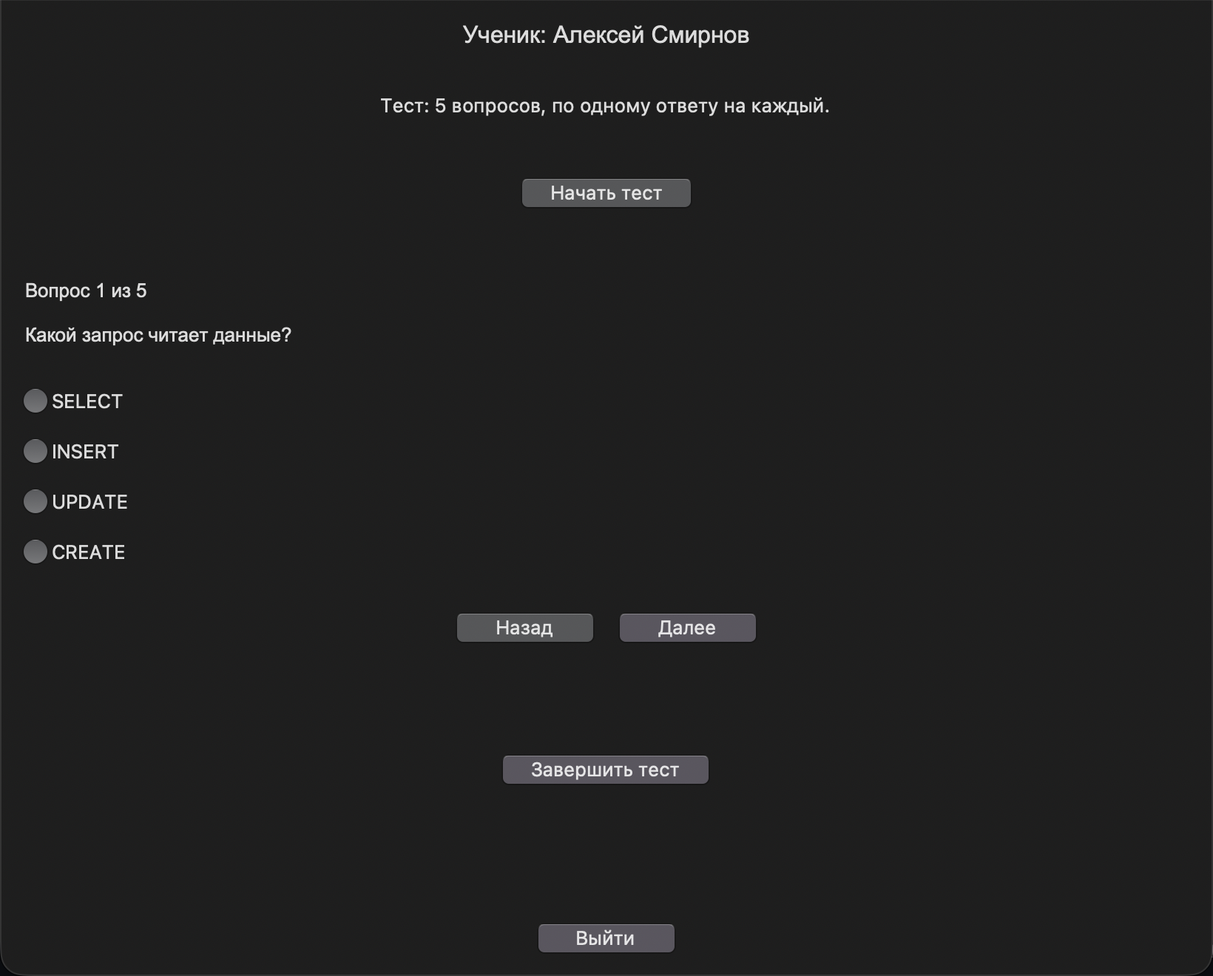
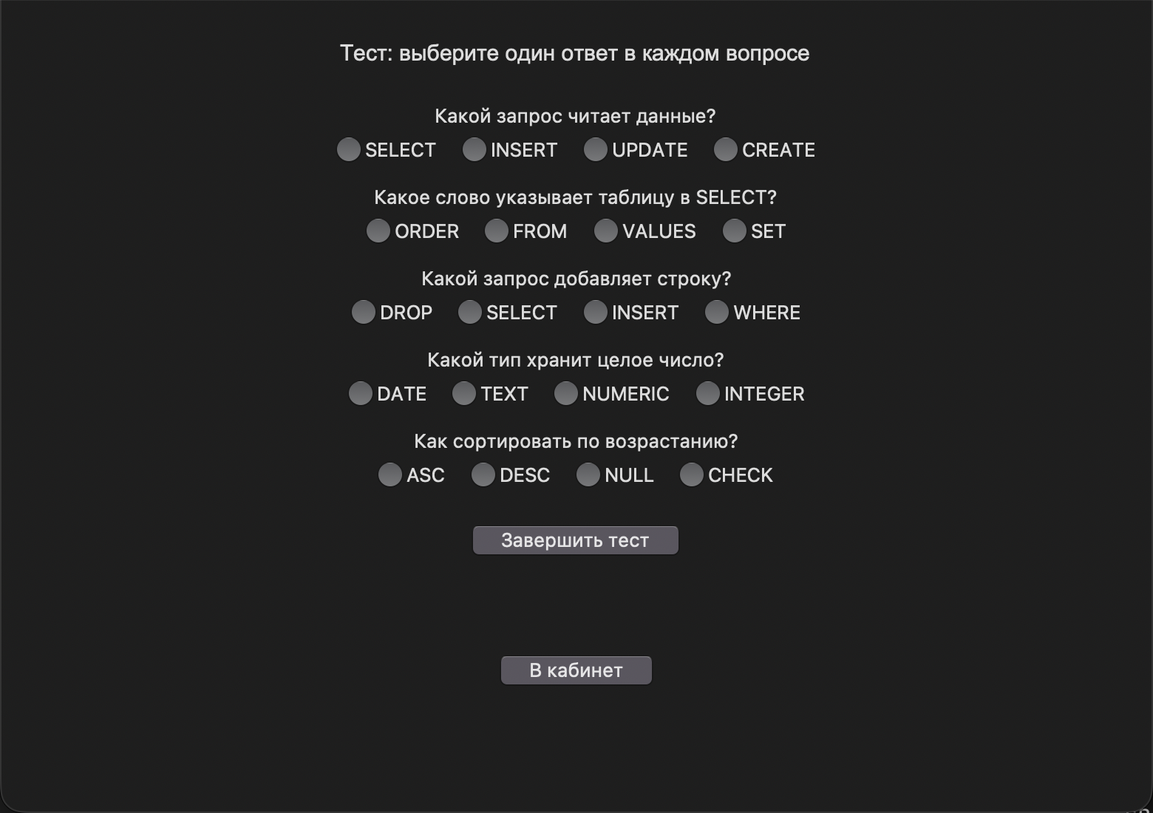
Снизить сложность ТЗ до входа, двух ролей, готового теста и оценок

diff --git a/README.md b/README.md
@@ -1,310 +1,97 @@
-# Практическое задание «Система тестирования учащихся»
+# Практическая работа «Простая система тестирования»
 
-**Разработайте приложение на Python с графическим интерфейсом Tkinter и базой данных PostgreSQL.** В приложении должны работать авторизация и регистрация с выбором роли, тест из пяти вопросов, редактор вопросов и просмотр успеваемости.
+Создайте приложение на Python с Tkinter и PostgreSQL. В нём две роли: **ученик** и **преподаватель**. Ученик проходит один готовый тест и видит свои оценки. Преподаватель смотрит результаты всех учеников.
 
-В системе две роли: **ученик** и **преподаватель**. **Тест один общий для всех учеников. Выбирать преподавателя при регистрации не нужно. Все преподаватели редактируют общий тест и видят результаты всех учеников.** Предмет тестирования можно выбрать самостоятельно. В схемах приведён пример по основам SQL.
+Для этой работы достаточно одного окна: при переходе можно очищать его содержимое и показывать другую форму. Пишите обычные функции, без собственных классов.
 
-## 1. Первое окно — вход и регистрация
+## 1. Вход
 
-![Окно входа](images/01_auth_registration.png)
+![Простая форма входа](images/01_auth_registration.png)
 
-При запуске покажите форму входа. Под кнопкой «Войти» разместите надпись **«Нет аккаунта?»** и кнопку **«Зарегистрироваться»**. По нажатию открывается форма регистрации: в отдельном окне либо на другой вкладке.
+На форме два поля: **логин** и **пароль**. Ниже кнопки **«Войти»** и **«Создать аккаунт»**.
 
-### Вход
+По нажатию «Войти» найдите пользователя в БД и проверьте пароль. Роль возьмите из найденной записи: ученик открывает свой кабинет, преподаватель — свой. При неверном логине или пароле покажите предупреждение.
 
-1. Пользователь выбирает роль **«Ученик»** или **«Преподаватель»** из выпадающего списка, вводит логин и пароль, затем нажимает **«Войти»**.
-2. Приложение проверяет данные по БД.
-3. После успешного входа открывается кабинет, соответствующий роли пользователя.
-4. При неверных данных появляется сообщение «Неверный логин или пароль».
+Выбирать роль при входе и выбирать преподавателя ученику не нужно.
 
-В поле **«Роль»** должны быть только два значения: **«Ученик»** и **«Преподаватель»**. Приложение сверяет выбранную роль с ролью учётной записи в БД. Если роль не совпадает, вход запрещается и выводится понятное предупреждение. Выбор преподавателя в списке ролей не даёт ученику доступ к кабинету преподавателя.
+## 2. Регистрация
 
-### Регистрация с выбором роли
+![Простая форма регистрации](images/02_registration.png)
 
-![Регистрация без выбора преподавателя](images/05_registration.png)
+На форме:
 
-В форме должны быть выпадающий список **«Роль: Ученик / Преподаватель»**, поля «ФИО», «Логин», «Пароль», «Повторите пароль» и кнопка **«Зарегистрироваться»**.
+- Новый логин: от 3 до 30 символов.
+- Пароль: не менее 8 символов.
+- Роль из списка: «Ученик» или «Преподаватель».
+- Кнопки «Зарегистрироваться» и «Назад ко входу».
 
-Добавьте кнопку **«Уже есть аккаунт? Войти»**, которая возвращает к форме входа.
+Пустые/слишком короткие значения и занятый логин не сохраняйте. Приводите логин к нижнему регистру при регистрации и входе. После регистрации верните пользователя к форме входа.
 
-- ФИО обязательно для заполнения.
-- Логин — от 3 до 50 символов; повторяющиеся логины запрещены. Регистр букв при проверке логина не учитывается.
-- Пароль — не менее 8 символов; оба введённых пароля должны совпадать.
-- После регистрации учётная запись сохраняется с выбранной ролью. Пользователь возвращается к входу; в форме входа автоматически выбирается та же роль.
-- При регистрации нового преподавателя отдельный тест не создаётся: после входа он работает с общим тестом из пяти вопросов. Поля «Ваш преподаватель» в форме нет.
+Для защиты пароля возьмите готовый файл password_tools.py из материалов. Он создаёт хеш и проверяет пароль; писать этот вспомогательный код самостоятельно не требуется.
 
-Для демонстрации заранее создайте преподавателя и учеников; также обеспечьте регистрацию обеих ролей через интерфейс. Пароли храните в виде хешей с солью.
+## 3. Кабинет ученика и тест
 
-## 2. Второе окно — кабинет преподавателя и редактор вопросов
+Кнопки кабинета: **«Пройти тест»**, **«Мои оценки»**, **«Выйти»**.
 
-![Схема кабинета преподавателя с редактором и правильным ответом](images/02_teacher_editor.png)
+![Пять вопросов на одном экране](images/03_student_test.png)
 
-В кабинете покажите ФИО преподавателя, редактор теста, кнопку **«Мои ученики»** и кнопку **«Выйти»**.
+1. По кнопке «Пройти тест» загрузите из БД пять готовых вопросов.
+2. Покажите у каждого четыре варианта и дайте выбрать один через Radiobutton.
+3. По кнопке «Завершить тест» проверьте, что ответы выбраны во всех пяти вопросах. При пропуске покажите предупреждение.
+4. Посчитайте правильные ответы и определите оценку.
+5. Сохраните логин ученика, число правильных ответов и оценку в БД.
+6. Покажите результат: например, «Верных ответов: 4 из 5. Оценка: 4».
 
-Общий тест состоит ровно из **пяти вопросов**. Для каждого вопроса предусмотрено **четыре варианта**, из которых **один правильный**.
+Шкала простая: 5 правильных → оценка 5; 4 → 4; 3 → 3; от 0 до 2 → 2.
 
-Преподаватель должен иметь возможность:
+Сначала сравнение выполняется в Python. За каждое совпадение счётчик увеличивается на 1. Затем INSERT сохраняет итог. Сохраняются все завершённые результаты, даже ноль правильных ответов. При пропуске результат пока не сохраняется.
 
-1. Выбрать любой из пяти вопросов.
-2. Увидеть текст вопроса и четыре варианта ответа.
-3. Увидеть, какой вариант отмечен правильным.
-4. Изменить вопрос, варианты и отметку правильного ответа.
-5. Нажать **«Сохранить изменения»** и получить сообщение об успешном сохранении.
+После сохранения выключите кнопку завершения, чтобы повторный щелчок не добавил ту же запись. Новое прохождение разрешено и сохраняется новой строкой. До завершения оценку не показывайте.
 
-Не допускайте сохранения пустого вопроса, пустых вариантов или отсутствия правильного ответа. Изменения записываются в БД и используются в новых попытках. Добавление и удаление вопросов в этой работе не требуется.
+## 4. Оценки ученика
 
-Все преподаватели редактируют один общий тест и видят всех учеников системы. Ученик получает общий тест. Ученику редактирование и просмотр статистики недоступны.
+![Свои оценки ученика](images/05_student_grades.png)
 
-## 3. Третье окно — кабинет ученика и тест
+По кнопке «Мои оценки» покажите Treeview с тремя столбцами: **Ученик · Верных из 5 · Оценка**. Загрузите только результаты вошедшего ученика. Кнопка «Обновить» повторно читает БД, «В кабинет» возвращает назад.
 
-![Схема кабинета ученика с пятью вопросами и итоговым результатом](images/03_student_test.png)
+## 5. Кабинет преподавателя
 
-В кабинете покажите ФИО ученика, кнопку **«Начать тест»** и кнопку **«Выйти»**.
+Кнопки кабинета: **«Все результаты»** и **«Выйти»**.
 
-После начала теста:
+![Все результаты преподавателю](images/04_teacher_statistics.png)
 
-1. Загрузите из БД пять вопросов и варианты ответа.
-2. Покажите вопросы в одном окне с прокруткой либо последовательно.
-3. Для каждого вопроса дайте выбрать один вариант ответа, например с помощью переключателей `Radiobutton`.
-4. Предусмотрите кнопку **«Завершить тест»**.
+По кнопке «Все результаты» покажите такую же таблицу из трёх столбцов, но с результатами всех учеников. Добавьте «Обновить» и «В кабинет».
 
-Пока ученик не завершил тест, правильные ответы и оценка не показываются. Если хотя бы один ответ не выбран, выведите предупреждение и оставьте возможность продолжить работу.
+Преподаватель только смотрит результаты. Редактор вопросов в этой работе не требуется: вопросы уже заполнены через SQL. Ученик видит только свои результаты.
 
-После завершения автоматически подсчитайте правильные ответы и покажите результат, например: **«Правильных ответов: 4 из 5. Оценка: 4»**.
+## 6. База данных
 
-Шкала оценивания:
+Достаточно трёх таблиц:
 
-- 5 правильных ответов — **5**.
-- 4 правильных ответа — **4**.
-- 3 правильных ответа — **3**.
-- От 0 до 2 правильных ответов — **2**.
+- users: login, password_hash, role.
+- questions: id, question, answer_1, answer_2, answer_3, answer_4, correct.
+- results: id, student_login, score, grade.
 
-Сохраните ученика, дату и время завершения, ответы на пять вопросов, число правильных ответов и оценку. Время в интерфейсе показывайте по Москве.
+correct — номер правильного варианта от 1 до 4. score — количество верных ответов от 0 до 5. grade — оценка. id в results автоматически выдаётся через SERIAL.
 
-Повторное прохождение разрешено. Каждое прохождение сохраняется отдельной попыткой. Повторное нажатие кнопки завершения одной попытки не должно создавать дубликат.
+Используйте простые TEXT, INTEGER и SERIAL. Для работы достаточно CREATE TABLE, INSERT, SELECT, WHERE и ORDER BY. Готовые команды создания таблиц и заполнения пяти вопросов даны в пошаговых материалах. JOIN, внешние ключи, даты, отдельное сохранение каждого ответа и история изменения вопросов не нужны.
 
-Блок результата появляется только после завершения теста.
+Данные должны оставаться после закрытия программы. Пользовательские значения передавайте в запросы через %s и отдельный кортеж параметров, как показано в примерах. Ошибку подключения показывайте сообщением, чтобы программа не закрывалась аварийно.
 
-### Подсказка: как получить и сохранить оценку без JOIN
+## 7. Как собирать
 
-1. При нажатии «Начать тест» загрузите пять общих вопросов, четыре варианта и правильный номер каждого.
-2. Сохраните копию этих данных в памяти текущей попытки. Ученик видит только вопрос и варианты.
-3. Получите пять выбранных номеров из Tkinter. Если есть пропуск, покажите предупреждение и не сохраняйте попытку.
-4. Сравните выбор с правильным номером из сохранённой копии. За совпадение прибавьте 1 к счётчику Python.
-5. Определите оценку, затем сохраните попытку и все пять ответов одной транзакцией. Даже ноль правильных — завершённая попытка с оценкой 2.
-6. Для статистики читайте уже сохранённые оценки. Не пересчитывайте их по изменённым вопросам.
+Откройте папку tk_system в репозитории Materials. Там пошагово собирается именно эта простая программа, в одном файле app.py. Идите по документам 01–05 по порядку. Каждый фрагмент объясняет, в какой файл и куда добавить строки.
 
-Ниже небольшие примеры. Полная пошаговая сборка по строкам находится в папке tk_system репозитория Materials. Файлы идут по порядку от 01_База_и_настройки.md до 06_Словарь.md.
+Готовые settings_example.py и password_tools.py разрешается взять из материалов. Создайте копию settings_example.py с именем settings.py и укажите свои параметры PostgreSQL. Не нужно писать защиту пароля с нуля.
 
-#### Шаг 1. Один SELECT читает общий тест
+## 8. Что проверить и показать
 
-Варианты можно хранить четырьмя текстовыми полями одной таблицы questions. Для этого учебного задания отдельная таблица вариантов не обязательна.
+1. Регистрация создаёт ученика и преподавателя. Повторный логин вызывает предупреждение.
+2. Неверный пароль не позволяет войти. Правильный вход открывает кабинет нужной роли.
+3. Тест содержит пять вопросов, в каждом выбирается один ответ.
+4. С пропуском тест не завершается. Без пропусков результат сохраняется и появляется оценка.
+5. За 5, 4, 3 и 2 правильных ответа получаются оценки 5, 4, 3 и 2.
+6. Ученик видит свои оценки, преподаватель — все результаты. Новое прохождение добавляет строку.
+7. После закрытия и запуска результаты остаются в БД.
 
-```sql
-SELECT id, position, question_text, option_1, option_2, option_3, option_4, correct_option
-FROM questions ORDER BY position;
-```
-
-SELECT выбирает поля, FROM задаёт таблицу, ORDER BY задаёт порядок. position — номер вопроса 1–5, correct_option — правильный вариант 1–4. Запрос возвращает пять строк. Соединение таблиц не требуется.
-
-Шаблон для обычного курсора psycopg:
-
-```python
-курсор.execute(sql_вопросов)
-вопросы = курсор.fetchall()
-```
-
-sql_вопросов — строка с запросом выше; её нужно определить перед выполнением. fetchall возвращает все строки. При обычном курсоре вопросы[0][7] — правильный номер первого вопроса. В пошаговой сборке используется dict_row: там можно обращаться по имени поля, например строка['correct_option'].
-
-Сохраните отдельный снимок пяти вопросов, текстов, вариантов и правильных номеров при старте. При завершении используйте его, даже если преподаватель уже изменил общий тест.
-
-#### Шаг 2. Сохраните выбор ученика в Tkinter
-
-Для каждого вопроса нужна своя переменная. Пример для одного вопроса:
-
-```python
-выбор = tk.IntVar(value=0)
-```
-
-`IntVar` хранит целое число, связанное с переключателями Tkinter. `value=0` означает «ответ ещё не выбран». Создавайте переменные после создания главного окна. В файле должен быть импорт `import tkinter as tk`, а для следующих строк — `from tkinter import ttk`.
-
-Четыре переключателя одного вопроса связываются с одной переменной:
-
-```python
-for номер, текст in enumerate(варианты, start=1):
-    ttk.Radiobutton(область_вопроса, text=текст, variable=выбор, value=номер).pack(anchor="w")
-```
-
-`варианты` — список четырёх текстов из снимка, `область_вопроса` — созданный вами Frame. `enumerate(..., start=1)` даёт номера 1–4. `text` — надпись, `variable` — общая переменная этого вопроса, `value` — число, которое запишется при выборе. `pack` размещает виджет, `anchor="w"` прижимает к левому краю.
-
-Для пяти вопросов создайте пять отдельных `IntVar` и соберите их в список `выборы`. Если использовать одну переменную для всех пяти вопросов, выбор в одном вопросе будет менять выбор в другом.
-
-В обработчике «Завершить тест» получите значения:
-
-```python
-ответы_ученика = [переменная.get() for переменная in выборы]
-```
-
-`get()` читает текущее значение. Запись в квадратных скобках создаёт список значений пяти переменных. Сначала убедитесь, что их ровно пять и каждый ответ входит в `(1, 2, 3, 4)`. Если есть `0`, покажите предупреждение и завершите обработчик через `return`, сохранив возможность продолжить тест.
-
-#### Шаг 3. Посчитайте совпадения
-
-Для понимания проверьте маленький пример отдельно от интерфейса. В настоящем приложении первый список получается из снимка вопросов, второй — из пяти переменных Tkinter. Порядок вопросов в обоих списках должен совпадать.
-
-```python
-правильные_ответы = [1, 2, 3, 4, 1]
-ответы_ученика = [1, 2, 4, 4, 1]
-```
-
-Здесь ученик ошибся только в третьем вопросе. Номера вариантов начинаются с 1. Эти списки — демонстрационные значения, а не правильные ответы, которые нужно жёстко записать в программе.
-
-Начните счёт с нуля:
-
-```python
-количество = 0
-```
-
-Сравните пары ответов:
-
-```python
-for выбранный, правильный in zip(ответы_ученика, правильные_ответы):
-    if выбранный == правильный:
-        количество += 1
-```
-
-`zip` берёт по одному элементу из каждого списка. `==` проверяет равенство, `if` выполняет вложенную строку только при совпадении, `+= 1` прибавляет единицу. Для примера получится `4`. Перед циклом обязательно проверьте длины: `zip` заканчивает работу по более короткому списку и сам не сообщит о недостающем ответе.
-
-Сохраните также результат сравнения каждого вопроса — он понадобится для столбцов «Верно» и «Неверно», либо получите его позднее из сохранённых выбранного и правильного номеров.
-
-#### Шаг 4. Определите оценку
-
-После подсчёта используйте шкалу задания:
-
-```python
-if количество == 5:
-    оценка = 5
-elif количество == 4:
-    оценка = 4
-elif количество == 3:
-    оценка = 3
-else:
-    оценка = 2
-```
-
-`elif` проверяет следующее условие, если предыдущие не подошли. `else` обрабатывает оставшиеся случаи: после проверки корректности ответов это 0, 1 или 2 совпадения. В примере получится оценка `4`.
-
-#### Шаг 5. Когда данные записываются в PostgreSQL
-
-Увеличение счётчика происходит в памяти Python и не выполняет запрос. После проверки всех пяти ответов выполните INSERT попытки, затем INSERT пяти ответов со снимками вопросов и вариантов. Все команды должны быть внутри одного соединения с одной транзакцией.
-
-```python
-with psycopg.connect(**DB) as соединение:
-    with соединение.cursor() as курсор:
-        # INSERT попытки, затем пять INSERT ответов.
-        pass
-```
-
-Это каркас, а не готовое сохранение: pass замените запросами. Нужны import psycopg и настройки DB. При успешном выходе из внешнего with изменения сохранятся вместе; при исключении отменятся. Перехватывайте ошибку снаружи транзакции. Результат показывайте после успешного сохранения. UUID попытки создавайте один раз при старте, чтобы повторное завершение не дублировало запись.
-
-#### Шаг 6. Статистика несколькими простыми SELECT
-
-Сначала получите учеников:
-
-```sql
-SELECT id, full_name FROM users WHERE role = 'Ученик' ORDER BY full_name;
-```
-
-Затем в цикле получите попытки каждого ученика:
-
-```sql
-SELECT id, finished_at, correct_count, grade
-FROM attempts WHERE student_id = %s ORDER BY finished_at DESC;
-```
-
-%s — значение, переданное отдельно в execute, например (id_ученика,). correct_count и grade уже сохранены. Если список попыток пуст, добавьте в Treeview строку «Не проходил» и прочерки.
-
-Для каждой попытки прочитайте ответы:
-
-```sql
-SELECT position, chosen_option, correct_option
-FROM answers WHERE attempt_id = %s ORDER BY position;
-```
-
-Сравните сохранённые chosen_option и correct_option: получите «Верно» или «Неверно». Правильный номер здесь из снимка попытки. Таким способом статистика собирается без JOIN. Время перед выводом переведите в UTC+3.
-
-## 4. Четвёртое окно — «Мои ученики» и успеваемость
-
-![Схема списка учеников, успеваемости и отдельного окна подробных ответов](images/04_teacher_statistics.png)
-
-По нажатию **«Мои ученики»** откройте отдельное окно со списком всех учеников системы.
-
-В таблице должны быть столбцы:
-
-**ФИО ученика · Дата и время · Вопрос 1 · Вопрос 2 · Вопрос 3 · Вопрос 4 · Вопрос 5 · Правильных ответов · Оценка.**
-
-- В столбцах вопросов показывайте **«Верно»** или **«Неверно»**.
-- Одна строка — одна завершённая попытка. Повторные попытки не заменяют предыдущие.
-- Учеников без попыток тоже показывайте: в дате — «Не проходил», в результатах — прочерки.
-- Предусмотрите кнопку **«Обновить»**, которая повторно получает статистику из БД.
-
-### Подробные ответы в отдельном окне
-
-При выборе попытки и нажатии **«Подробнее»** откройте дополнительное окно. Покажите ФИО ученика, дату, оценку и разбор всех пяти вопросов.
-
-Для каждого вопроса выведите:
-
-- Текст вопроса и варианты ответа.
-- Вариант, выбранный учеником.
-- **Правильный вариант ответа — тот, который должен был выбрать ученик.**
-- Результат проверки: «Верно» или «Неверно».
-
-Дополнительное окно открывается по кнопке «Подробнее», а его текст должен прокручиваться при необходимости.
-
-## 5. Требования к базе данных и программе
-
-Спроектируйте таблицы пользователей, вопросов, попыток и ответов учеников. Четыре варианта храните текстовыми полями вопроса. Свяжите попытки с пользователями, а ответы — с попытками и вопросами через первичные и внешние ключи. Для получения связанных данных разрешены несколько простых SELECT; JOIN не требуется.
-
-Обязательно обеспечьте следующее:
-
-- Вопросы, варианты, учётные записи и статистика загружаются из БД.
-- Сохранённые изменения и результаты остаются после перезапуска программы.
-- Роль проверяется при выполнении операций: ученик не может редактировать тест, читать преподавательскую статистику или завершать попытку другого ученика. Все преподаватели работают с общим тестом и общей статистикой.
-- SQL-запросы с введёнными пользователем значениями выполняются с параметрами.
-- Все ответы и итог одной попытки сохраняются одной транзакцией.
-- Сообщения об ошибках понятны пользователю; ошибка подключения не завершает приложение аварийно.
-
-**Сохраняйте историю теста.** Если преподаватель изменил вопрос после прохождения, старый результат должен показывать прежний вопрос и прежний правильный ответ. Изменение не пересчитывает старые оценки. При редактировании во время прохождения ученик завершает ту версию, которую получил при нажатии «Начать тест».
-
-## 6. Рекомендуемый порядок работы
-
-1. Создайте БД и таблицы, настройте связи и ограничения.
-2. Добавьте преподавателя, не менее трёх учеников и пять вопросов по выбранной теме.
-3. Реализуйте вход и регистрацию с выбором роли «Ученик» или «Преподаватель».
-4. Создайте редактор преподавателя и проверьте сохранение изменений.
-5. Реализуйте загрузку и прохождение теста учеником.
-6. Добавьте оценивание и сохранение попыток с ответами.
-7. Создайте список учеников и подробный просмотр попытки.
-8. Проверьте все сценарии ниже.
-
-## 7. Что продемонстрировать при сдаче
-
-1. Неверный пароль или несовпадение выбранной роли с ролью в БД не позволяют войти. Правильные данные с выбранной ролью открывают соответствующий кабинет.
-2. Кнопка «Зарегистрироваться» под надписью «Нет аккаунта?» открывает форму регистрации; кнопка «Уже есть аккаунт? Войти» возвращает к входу. Регистрация создаёт ученика или преподавателя по выбору пользователя. Поля «Ваш преподаватель» нет. Новый преподаватель получает доступ к общему тесту из пяти редактируемых вопросов. Повторный логин и несовпадающие пароли вызывают предупреждение.
-3. Учитель меняет вопрос и правильный вариант; после перезапуска изменения сохраняются.
-4. Ученик получает именно пять вопросов и не может завершить тест с пропусками.
-5. За пять, четыре, три и два правильных ответа выставляются оценки 5, 4, 3 и 2 соответственно.
-6. Вторая попытка сохраняется новой строкой. Ранее сохранённая попытка остаётся.
-7. Преподаватель видит дату, оценку и результат по каждому вопросу. В подробностях видны ответ ученика и правильный вариант.
-8. Ученик без попыток виден с пометкой «Не проходил».
-9. Изменение теста не меняет старые результаты и текущую начатую попытку.
-10. Ученику недоступны редактор и общая статистика. Все преподаватели видят общий тест и результаты всех учеников.
-
-## 8. Что сдать
-
-- Исходный код приложения.
-- SQL-файл создания таблиц и средство начального заполнения БД.
-- Список демонстрационных учётных записей.
-- Краткую инструкцию: установка зависимостей, настройка подключения и запуск.
-- Скриншоты работающих окон: вход и регистрация, редактор, тест ученика, статистика и подробный разбор.
-
-**Схемы в этом задании показывают необходимые элементы. Их расположение, цвета и размеры можно изменить. Пошаговая сборка решения размещена в папке tk_system репозитория Materials.**
+Сдайте папку с программой, SQL создания таблиц и заполнения вопросов, а также укажите логины демонстрационного ученика и преподавателя. Параметры своего подключения храните в settings.py.
